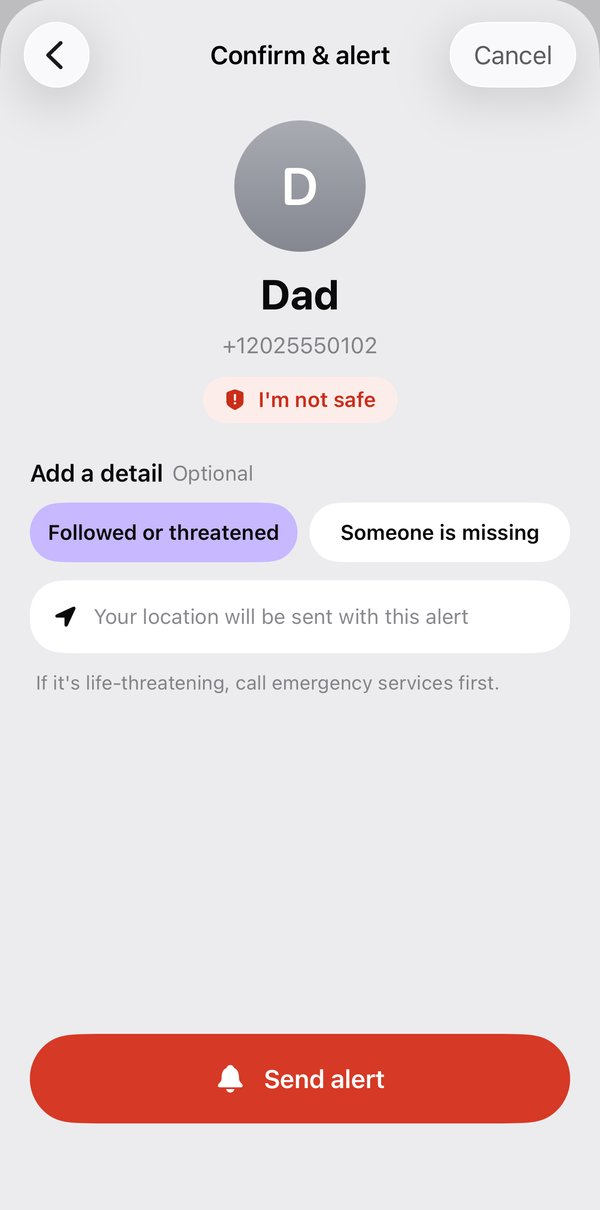
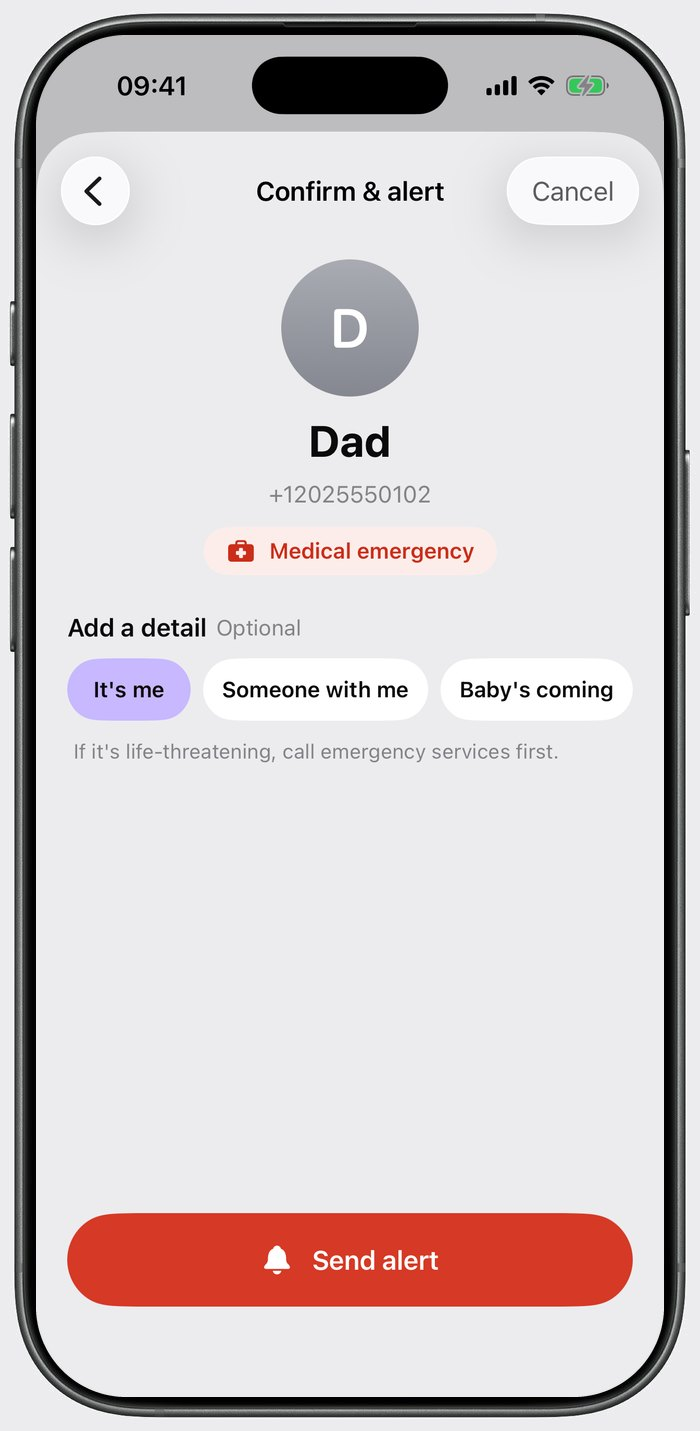
Landing: How it works screenshots in the same iPhone frame as the hero
Retaken without the back-to-app label, with the camera cutout, and all
three steps now follow one medical-emergency alert to Dad.

diff --git a/index.html b/index.html
@@ -14,7 +14,7 @@
   <meta name="twitter:card" content="summary_large_image">
   <link rel="icon" href="img/favicon-32.png" sizes="32x32">
   <link rel="apple-touch-icon" href="img/apple-touch-icon.png">
-  <link rel="stylesheet" href="style.css?v=2">
+  <link rel="stylesheet" href="style.css?v=3">
 </head>
 <body class="landing">
 <a class="skip-link" href="#main">Skip to content</a>
@@ -65,7 +65,7 @@
     <h2 class="section__title" id="how-title">How it works</h2>
     <ol class="steps">
       <li class="step">
-        <img class="step__shot" src="img/step-situation.jpg" width="600" height="1210" loading="lazy"
+        <img class="step__shot" src="img/step-situation.jpg?v=3" width="700" height="1431" loading="lazy"
              alt="The What’s happening? screen: Medical emergency, I’m not safe, Home emergency and After an attack.">
         <div class="step__text">
           <h3><span class="step__number">1</span>Pick what’s happening</h3>
@@ -73,16 +73,16 @@
         </div>
       </li>
       <li class="step">
-        <img class="step__shot" src="img/step-confirm.jpg" width="600" height="1210" loading="lazy"
-             alt="Confirm screen: alerting Dad that I’m not safe, followed or threatened, with location attached and a red Send alert button.">
+        <img class="step__shot" src="img/step-confirm.jpg?v=3" width="700" height="1431" loading="lazy"
+             alt="Confirm screen: alerting Dad about a medical emergency, detail It’s me, with a red Send alert button.">
         <div class="step__text">
           <h3><span class="step__number">2</span>Pick who</h3>
           <p>Only people who agreed to that situation show up. Add a detail if you have a second. Your location goes with it when it helps.</p>
         </div>
       </li>
       <li class="step">
-        <img class="step__shot" src="img/step-sent.jpg" width="600" height="1210" loading="lazy"
-             alt="Alert sent screen for Dad, showing what he sees.">
+        <img class="step__shot" src="img/step-sent.jpg?v=3" width="700" height="1431" loading="lazy"
+             alt="Alert sent screen: Dad, alert sent, what they see is Medical emergency, It’s me.">
         <div class="step__text">
           <h3><span class="step__number">3</span>Know it reached them</h3>
           <p>It gets through their Do Not Disturb and Focus, and rings again if they don’t open it. You see when they’ve seen it, and they can answer “On my way”.</p>

diff --git a/style.css b/style.css
@@ -448,14 +448,8 @@ footer span { margin-inline-end: auto; }
   gap: 32px 24px;
 }
 .step { margin: 0; display: grid; align-content: start; gap: 16px; }
-.step__shot {
-  display: block;
-  width: 100%;
-  height: auto;
-  border-radius: 22px;
-  outline: 1px solid var(--color-separator);
-  outline-offset: -1px;
-}
+/* Each screenshot already sits in the same iPhone frame as the hero picture. */
+.step__shot { display: block; width: 100%; max-width: 230px; height: auto; }
 .step__text { display: grid; gap: 4px; padding: 0 4px; }
 .step h3 { font-size: 1.0625rem; line-height: 1.3; font-weight: 650; margin: 0; }
 .step__number {
@@ -469,7 +463,6 @@ footer span { margin-inline-end: auto; }
 @media (max-width: 640px) {
   .steps { grid-template-columns: 1fr; gap: 28px; }
   .step { grid-template-columns: 136px minmax(0, 1fr); align-items: center; gap: 20px; }
-  .step__shot { border-radius: 14px; }
 }
 
 /* ---------- Doesn't my iPhone already do this? ---------- */
